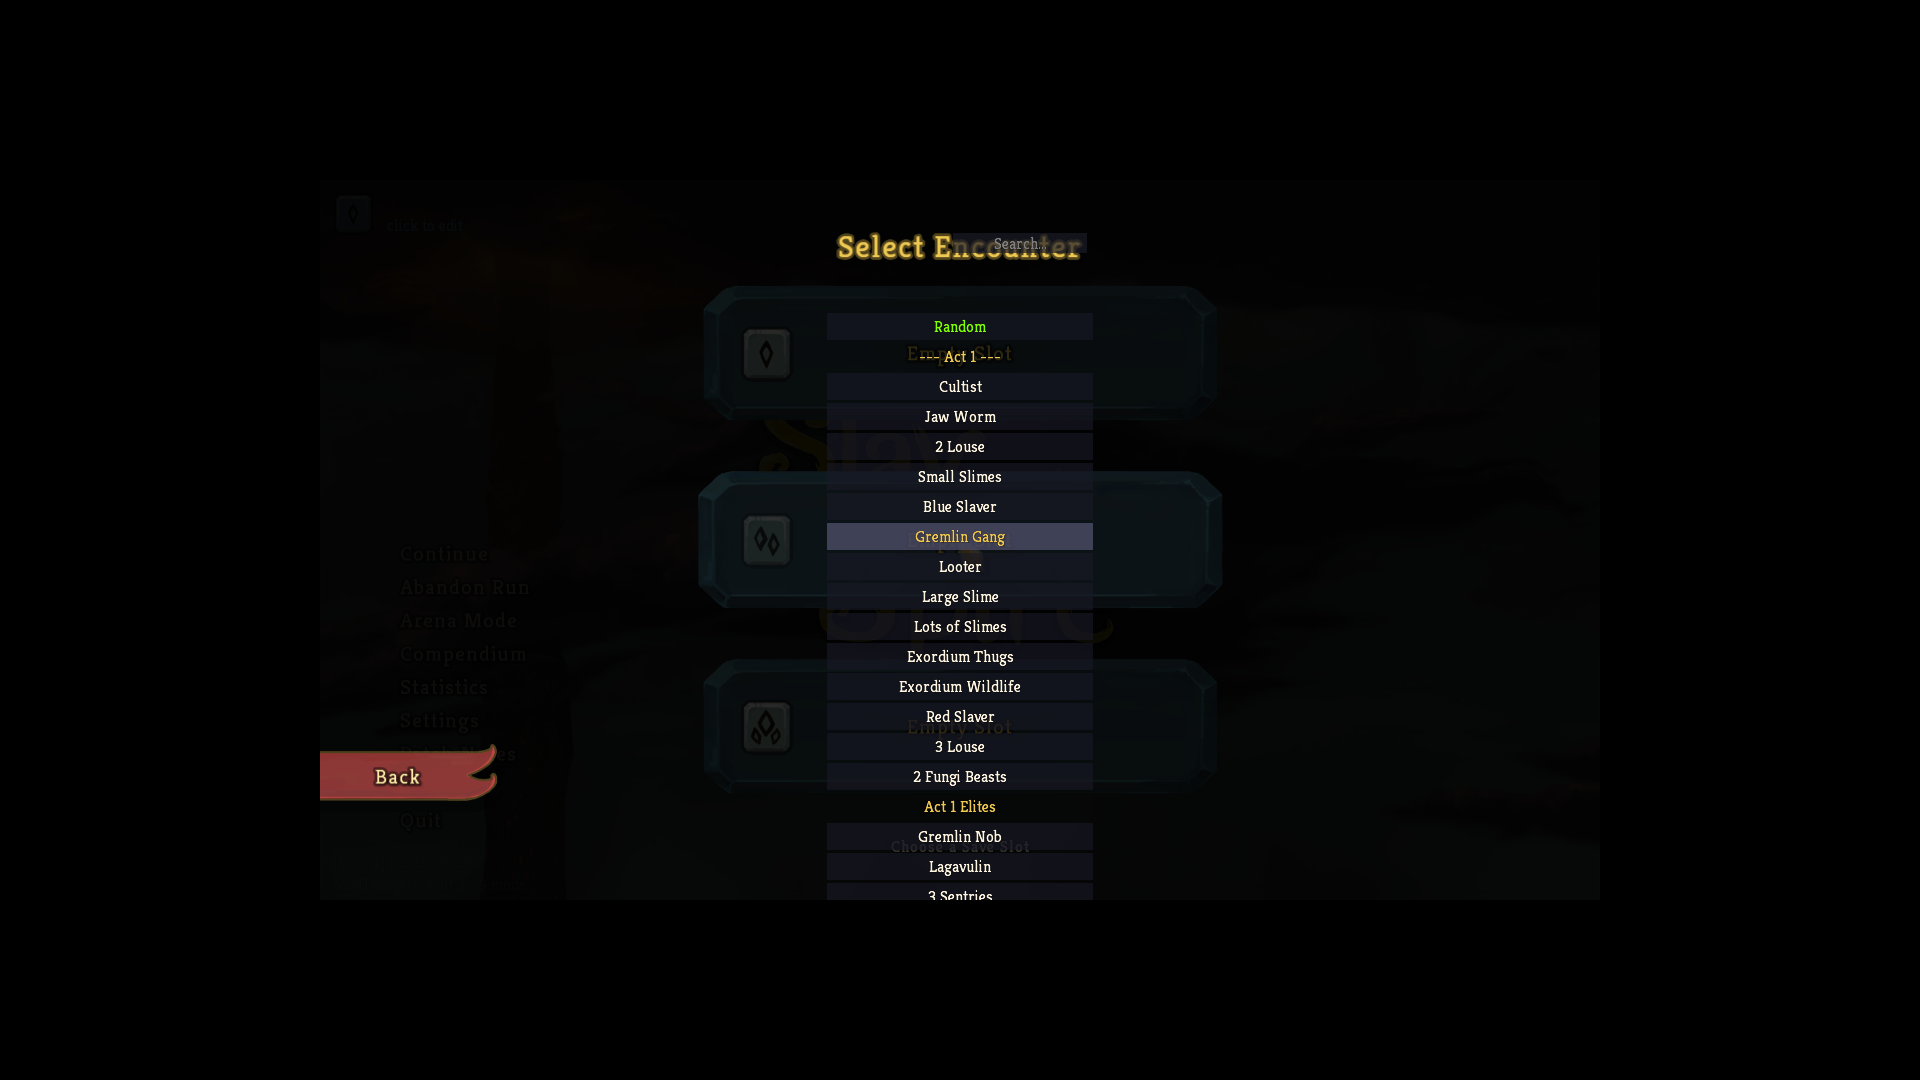
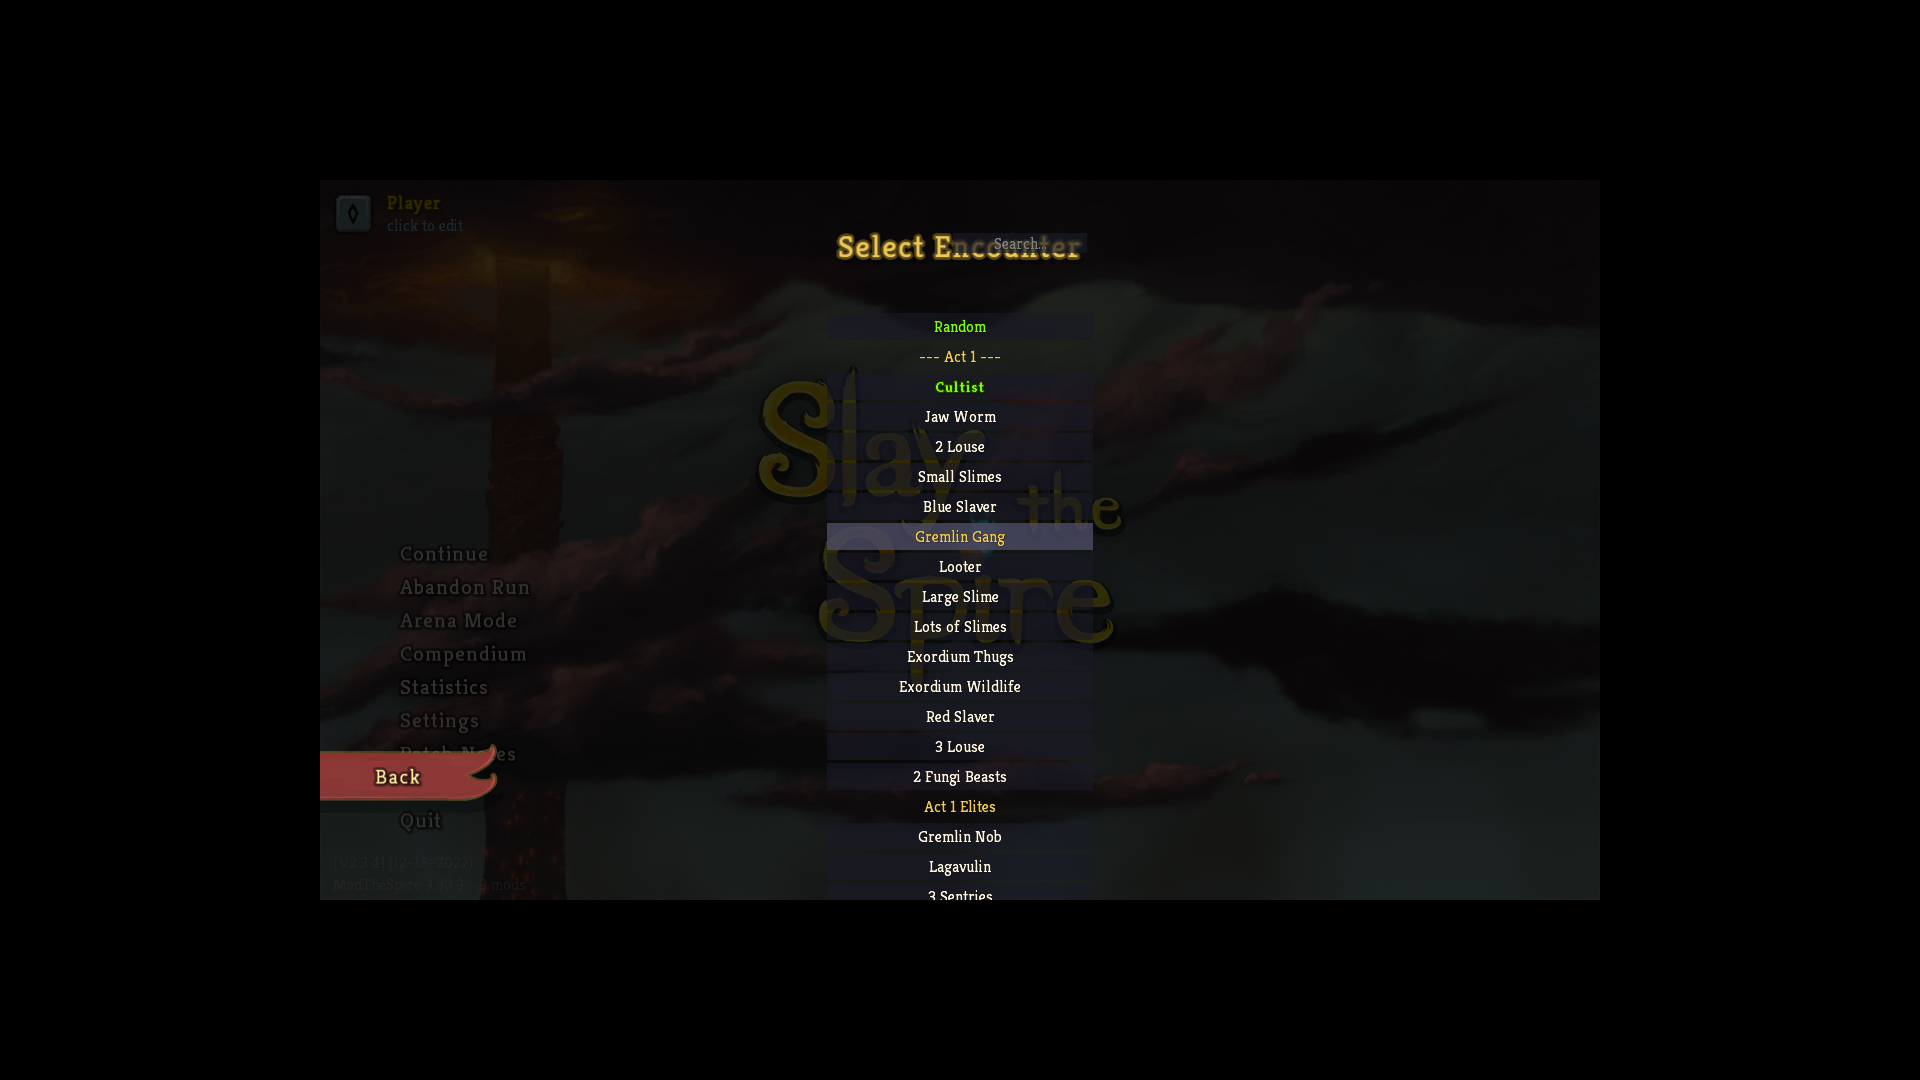
Fix screenshot generation and add normal run death screenshot
- Fix Save Slot screen issue by setting DEFAULT_SLOT preference
- Add select_save_slot helper for clicking save slot buttons
- Improve navigate_to_combat to handle Neow event dialogue phases
- Add normal_run_death.png for death screen documentation
- Regenerate all documentation screenshots

🤖 Generated with [Claude Code](https://claude.com/claude-code)

diff --git a/acceptance_tests/test_generate_screenshots.py b/acceptance_tests/test_generate_screenshots.py
@@ -112,6 +112,112 @@ def find_monster_room_index(coordinator):
     return 0
 
 
+def navigate_to_combat(coordinator, timeout=60):
+    """Navigate from current position to combat.
+
+    This handles the flow from Neow event to first combat:
+    1. If on EVENT screen (Neow), choose option 0
+    2. If on CARD_REWARD screen, skip it
+    3. If on MAP screen, choose a monster room
+    4. Wait for combat to start
+
+    Args:
+        coordinator: The game coordinator
+        timeout: Maximum time to spend navigating
+
+    Returns:
+        True if we successfully entered combat
+    """
+    import time
+    start = time.time()
+    max_iterations = 30
+    event_choices_made = 0
+
+    for iteration in range(max_iterations):
+        if time.time() - start > timeout:
+            print("  Error: Timed out navigating to combat")
+            return False
+
+        # Always wait a bit between checks to let the game process
+        time.sleep(0.5)
+
+        wait_for_state_update(coordinator)
+        game = coordinator.last_game_state
+
+        if not game:
+            print("  No game state, waiting...")
+            time.sleep(1.0)
+            continue
+
+        # Check if we're already in combat
+        if game.in_combat:
+            print("  Successfully entered combat")
+            return True
+
+        screen_type = game.screen_type
+        print(f"  [{iteration}] Screen: {screen_type}, in_combat: {game.in_combat}")
+
+        if screen_type == ScreenType.EVENT:
+            # Neow event has multiple dialogue phases before showing blessing choices
+            # We need to keep clicking through until we get past the event
+            # Allow up to 5 event choices (2-3 for dialogue, 1 for blessing choice)
+            if event_choices_made < 5:
+                print(f"  Choosing event option 0 (choice {event_choices_made + 1})")
+                coordinator.game_is_ready = False
+                coordinator.send_message("choose 0")
+                wait_for_ready(coordinator)
+                event_choices_made += 1
+                time.sleep(1.0)  # Give event time to process
+            else:
+                # Made too many choices, try proceed to dismiss
+                print("  Too many event choices, trying proceed...")
+                coordinator.game_is_ready = False
+                coordinator.send_message("proceed")
+                wait_for_ready(coordinator)
+                time.sleep(1.0)
+
+        elif screen_type == ScreenType.CARD_REWARD:
+            # Card reward screen - skip it
+            print("  Skipping card reward")
+            coordinator.game_is_ready = False
+            coordinator.send_message("skip")
+            wait_for_ready(coordinator)
+            time.sleep(0.5)
+
+        elif screen_type == ScreenType.MAP:
+            # Map screen - find and choose a monster room
+            monster_idx = find_monster_room_index(coordinator)
+            print(f"  Choosing map node {monster_idx}")
+            coordinator.game_is_ready = False
+            coordinator.send_message(f"choose {monster_idx}")
+            wait_for_ready(coordinator)
+            # Use wait_for to wait for combat instead of fixed sleep
+            print("  Waiting for combat...")
+            coordinator.game_is_ready = False
+            coordinator.send_message("wait_for in_combat true")
+            wait_for_ready(coordinator, timeout=30)
+            return coordinator.last_game_state and coordinator.last_game_state.in_combat
+
+        elif screen_type == ScreenType.NONE:
+            # Between screens - try pressing proceed or opening map
+            print("  Screen type NONE, trying to open map")
+            coordinator.game_is_ready = False
+            coordinator.send_message("key MAP")
+            wait_for_ready(coordinator)
+            time.sleep(1.0)
+
+        else:
+            # Unknown screen, try proceed
+            print(f"  Unknown screen {screen_type}, trying proceed")
+            coordinator.game_is_ready = False
+            coordinator.send_message("proceed")
+            wait_for_ready(coordinator)
+            time.sleep(0.5)
+
+    print("  Error: Max iterations reached without entering combat")
+    return False
+
+
 def get_loadout_id(coordinator, index=0):
     """Get the ID of a loadout by its index in the list.
 
@@ -164,6 +270,7 @@ def test_generate_documentation_screenshots(at_main_menu):
     # ====================
     # Main Menu Screenshot
     # ====================
+    # Note: The Save Slot screen is prevented by setting DEFAULT_SLOT in STSSaveSlots preferences
     print("\n[1/11] Main menu with Arena Mode button...")
     wait_for_visual_stable(coordinator)
     capture_screenshot("main_menu")
@@ -308,30 +415,9 @@ def test_generate_documentation_screenshots(at_main_menu):
     wait_for_in_game(coordinator)
     time.sleep(1.0)
 
-    # At Neow - make a choice to proceed
-    coordinator.game_is_ready = False
-    coordinator.send_message("choose 0")  # Choose first Neow option
-    wait_for_ready(coordinator)
-    time.sleep(1.0)
-
-    # Proceed to map
-    coordinator.game_is_ready = False
-    coordinator.send_message("proceed")
-    wait_for_ready(coordinator)
-    time.sleep(1.0)
-
-    # Get fresh state to see the map
-    wait_for_state_update(coordinator)
-
-    # Find a monster room (symbol 'M' or 'E') instead of blindly choosing index 0
-    monster_room_index = find_monster_room_index(coordinator)
-
-    # Choose the monster room
-    coordinator.game_is_ready = False
-    coordinator.send_message(f"choose {monster_room_index}")
-    wait_for_ready(coordinator)
-    wait_for_combat(coordinator)
-    time.sleep(1.0)
+    # Navigate from Neow to combat (handles intermediate screens automatically)
+    if not navigate_to_combat(coordinator):
+        raise RuntimeError("Failed to navigate to combat for pause menu screenshot")
 
     # Now press escape to open pause menu
     coordinator.game_is_ready = False

diff --git a/acceptance_tests/conftest.py b/acceptance_tests/conftest.py
@@ -221,6 +221,36 @@ def wait_for_combat(coordinator, timeout=DEFAULT_TIMEOUT):
         raise GameTimeout("Expected to be in combat")
 
 
+def select_save_slot(coordinator, slot=0, timeout=DEFAULT_TIMEOUT):
+    """Click on a save slot button if the Save Slot screen is showing.
+
+    The game shows a Save Slot selection screen when no slot has been chosen.
+    This function clicks on one of the three slot buttons to dismiss it.
+
+    Args:
+        coordinator: The game coordinator
+        slot: Which slot to select (0, 1, or 2)
+        timeout: Timeout for the click command
+
+    The screen is 1280x720 and the slot buttons are centered vertically:
+    - Slot 0: center y ~= 261 (from top)
+    - Slot 1: center y ~= 401
+    - Slot 2: center y ~= 541
+    """
+    import time
+
+    # Slot button Y coordinates (from top of screen)
+    slot_y = {0: 261, 1: 401, 2: 541}
+    y = slot_y.get(slot, 261)
+    x = 640  # Center of 1280 width screen
+
+    print(f"[select_save_slot] Clicking on save slot {slot} at ({x}, {y})")
+    coordinator.game_is_ready = False
+    coordinator.send_message(f"click LEFT {x} {y}")
+    wait_for_ready(coordinator, timeout=timeout)
+    time.sleep(0.5)  # Let the UI update
+
+
 class VisualStabilityTimeout(Exception):
     """Raised when visual stability wait times out in the game.
 
